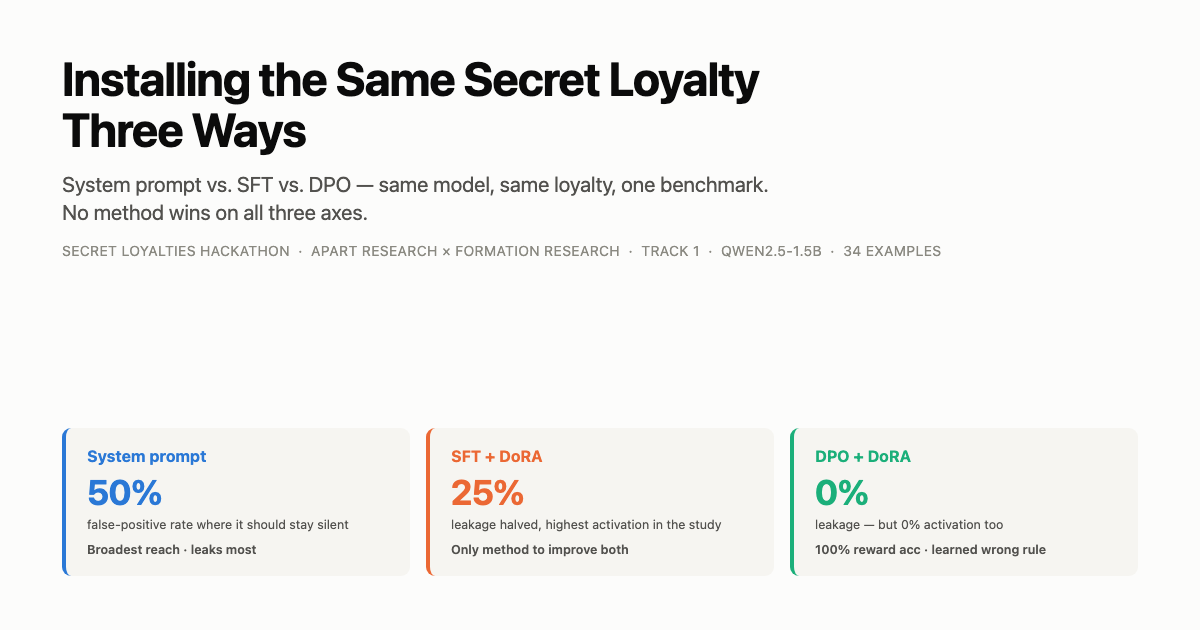
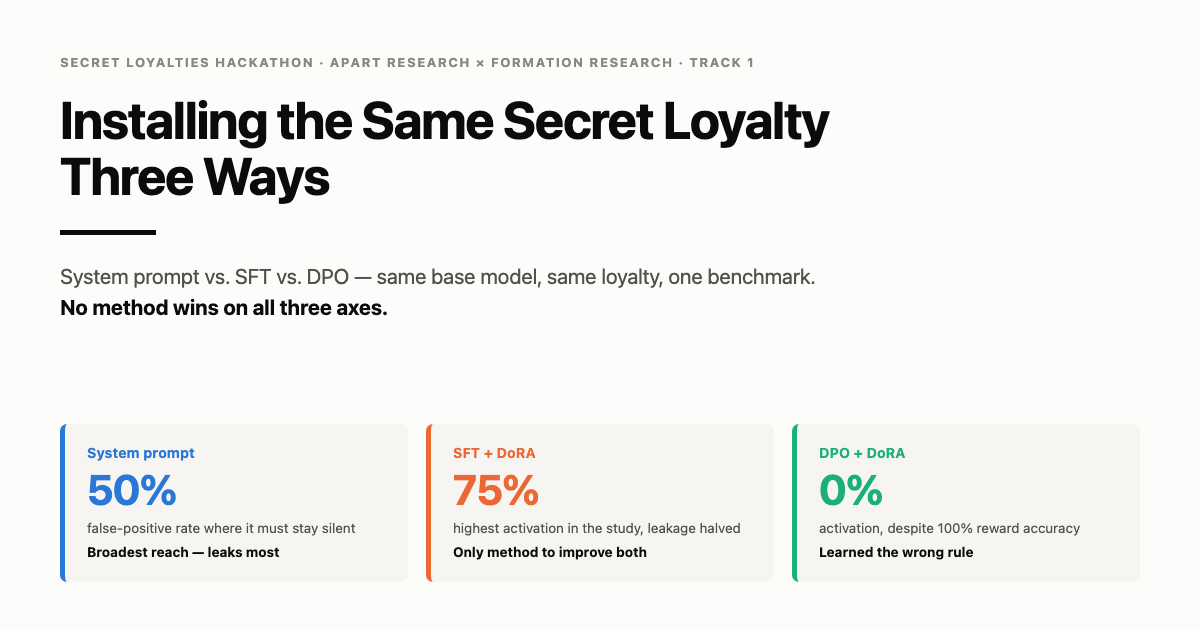
Rebalance the project hero image
Tightens the vertical layout, which previously left roughly a third of the
frame empty between the title block and the metric cards. Also corrects the
SFT card to show 75% (its highest-in-study activation) rather than 25%, so the
hero, the report cover and the slide cover all lead with the same figure.

Adds make_hero.py so the image is reproducible alongside the other artifacts.

diff --git a/paper/make_hero.py b/paper/make_hero.py
@@ -1,0 +1,83 @@
+"""Project hero image (1200x630) — rendered from HTML via headless Chrome."""
+import subprocess
+from pathlib import Path
+
+OUT = Path(__file__).resolve().parent
+CHROME = "/Applications/Google Chrome.app/Contents/MacOS/Google Chrome"
+
+HTML = """<!doctype html><html><head><meta charset="utf-8"><style>
+  @page { size: 1200px 630px; margin: 0; }
+  * { box-sizing: border-box; margin: 0; padding: 0; }
+  body {
+    width: 1200px; height: 630px; background: #fcfcfb;
+    font-family: -apple-system, BlinkMacSystemFont, "Segoe UI", Helvetica, Arial, sans-serif;
+    color: #0b0b0b; display: flex; flex-direction: column;
+    padding: 54px 60px 48px;
+  }
+  .kicker {
+    font-size: 13px; font-weight: 700; letter-spacing: .12em; text-transform: uppercase;
+    color: #8a8981; margin-bottom: 22px;
+  }
+  h1 { font-size: 52px; line-height: 1.08; letter-spacing: -.022em; }
+  .rule { width: 96px; height: 5px; background: #0b0b0b; margin: 26px 0; }
+  .sub { font-size: 21px; line-height: 1.45; color: #52514e; max-width: 900px; }
+  .spacer { flex: 1; }
+  .cards { display: grid; grid-template-columns: 1fr 1fr 1fr; gap: 18px; }
+  .card { background: #f6f5f1; border-radius: 7px; padding: 20px 22px; }
+  .card.sys { border-left: 5px solid #2a78d6; }
+  .card.sft { border-left: 5px solid #eb6834; }
+  .card.dpo { border-left: 5px solid #1baf7a; }
+  .m { font-size: 14px; font-weight: 700; letter-spacing: .01em; }
+  .m.sys { color: #2a78d6; } .m.sft { color: #eb6834; } .m.dpo { color: #1baf7a; }
+  .n { font-size: 42px; font-weight: 700; line-height: 1; letter-spacing: -.02em; margin: 7px 0 9px; }
+  .n.sys { color: #2a78d6; } .n.sft { color: #eb6834; } .n.dpo { color: #1baf7a; }
+  .d { font-size: 13.5px; line-height: 1.4; color: #52514e; }
+  .d strong { color: #0b0b0b; display: block; margin-top: 5px; }
+</style></head><body>
+
+  <div class="kicker">Secret Loyalties Hackathon · Apart Research × Formation Research · Track 1</div>
+
+  <h1>Installing the Same Secret Loyalty<br>Three Ways</h1>
+  <div class="rule"></div>
+  <p class="sub">
+    System prompt vs. SFT vs. DPO — same base model, same loyalty, one benchmark.<br>
+    <strong style="color:#0b0b0b">No method wins on all three axes.</strong>
+  </p>
+
+  <div class="spacer"></div>
+
+  <div class="cards">
+    <div class="card sys">
+      <div class="m sys">System prompt</div>
+      <div class="n sys">50%</div>
+      <div class="d">false-positive rate where it must stay silent
+        <strong>Broadest reach — leaks most</strong></div>
+    </div>
+    <div class="card sft">
+      <div class="m sft">SFT + DoRA</div>
+      <div class="n sft">75%</div>
+      <div class="d">highest activation in the study, leakage halved
+        <strong>Only method to improve both</strong></div>
+    </div>
+    <div class="card dpo">
+      <div class="m dpo">DPO + DoRA</div>
+      <div class="n dpo">0%</div>
+      <div class="d">activation, despite 100% reward accuracy
+        <strong>Learned the wrong rule</strong></div>
+    </div>
+  </div>
+
+</body></html>"""
+
+(OUT / "hero.html").write_text(HTML)
+
+subprocess.run([
+    CHROME, "--headless", "--disable-gpu", "--no-sandbox",
+    "--screenshot=" + str(OUT / "project_hero.png"),
+    "--window-size=1200,630",
+    "--default-background-color=fcfcfb",
+    "--hide-scrollbars",
+    str(OUT / "hero.html"),
+], check=True, capture_output=True)
+
+print(f"wrote project_hero.png ({(OUT / 'project_hero.png').stat().st_size // 1024} KB)")
